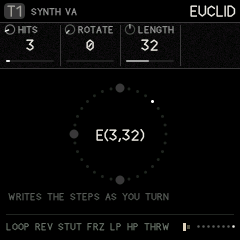
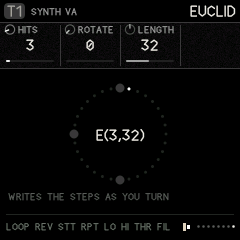
Punch-ins: REPEAT in time (black keys set its division), deeper tempo-timed sweeps, a true THROW (1.30.0)
- FX + white 4 is REPEAT (was the delay freeze, still on DELAY 2 > FREEZE):
  stutter_now() takes the master's last slice, a tempo division long, and
  repeats it while held (cut_hold: the repeats don't count down, full mix;
  let go, the slice playing ends). FX + black 1-5 set the division (1/16,
  1/16T, 1/32, 1/32T, 1/64), retaking a slice at once while held. Longer
  than half the cut ring (93 ms) is halved until it fits. A step's cut waits
  while REPEAT has the ring.
- LOW/HIGH PASS: punch_t restarts at each press; over one bar, exponentially,
  8 kHz -> 300 Hz and 40 Hz -> 6 kHz. The right channel's filter keeps its
  own state (only the coefficients are copied; it took the left's state).
- THROW: the dry fades out over ~80 ms while held (throw_g), the sends at
  0.8 as before.
- FX hint shortened to fit; manual screenshot; scenario punch.rvl.

Checked in the host: REPEAT's output is exactly periodic at the division
(self-similarity 1.0 at 1/32 of 104 BPM); the sweeps move the spectrum;
L/R correlation normal. Budgets: .fast_text 28,884 of 29,720 B.

Claude-Session: https://claude.ai/code/session_01BwzGhPZLDZkrxZk5dy3Yyf

diff --git a/firmware/app/rv_engine.c b/firmware/app/rv_engine.c
@@ -18,6 +18,8 @@ static uint32_t age_ctr;
 static uint32_t eng_rng = 0x13579BDFu;
 static float in_buf[RV_SUB * 2];
 static uint8_t punch[8];
+static uint8_t stut_rate = 2;                      /* the REPEAT punch-in's division (rv_bus.c stutter_now): 1/32 */
+static float punch_t, throw_g = 1.0f;              /* seconds since LOW or HIGH PASS was pressed; THROW's dry level */
 static hitshade_t hs_pend;                         /* the next hit's shading (R MOVE, GRAIN), taken by its voice */
 static svf_t punch_f[2];
 static float lim_gain = 1.0f;
@@ -517,6 +519,16 @@ static void cmd_drain(void)
             rv_live.playing = playing;
             break;
         case C_PUNCH:
+            if (c.a == 8) {                              /* REPEAT's division, from the black keys */
+                stut_rate = (uint8_t)clampi(c.b, 0, 4);
+                if (punch[3])
+                    stutter_now(1, stut_rate);
+                break;
+            }
+            if ((c.a == 4 || c.a == 5) && c.b && !punch[c.a])
+                punch_t = 0.0f;                          /* each press sweeps from the start */
+            if (c.a == 3 && c.b != punch[3])
+                stutter_now(c.b, stut_rate);
             punch[c.a & 7] = (uint8_t)c.b;
             if (c.a == 0 && c.b)
                 cut_now(1 | (rv.gp[GP_CUTSHAPE] << 2), 0.0f);
@@ -524,7 +536,6 @@ static void cmd_drain(void)
                 cut_now(2 | (rv.gp[GP_CUTSHAPE] << 2), 0.0f);
             if (c.a == 2 && c.b)
                 cut_now(3 | (rv.gp[GP_CUTSHAPE] << 2), 0.0f);
-            dly_freeze = punch[3];
             fill_on = punch[7];
             break;
         case C_CUT:
@@ -2234,11 +2245,11 @@ static void render_sub(float *outl, float *outr, int n)
         pan = eff[TP_PAN] * (1.0f / 64.0f);
         gl = lvl * fm_sqrtf(clampf(0.5f - pan * 0.5f, 0.0f, 1.0f)) * 1.414f;
         gr = lvl * fm_sqrtf(clampf(0.5f + pan * 0.5f, 0.0f, 1.0f)) * 1.414f;
-        if (punch[6]) {                              /* THROW: everything into delay and space */
-            gl *= 0.6f;
-            gr *= 0.6f;
+        if (punch[6] || throw_g < 1.0f) {            /* THROW: everything into delay and space, the dry fading out */
+            gl *= throw_g;
+            gr *= throw_g;
         }
-        if (!muted && !chorus && !punch[6] && n_chain) {   /* (the usual way: from RAM, the same sums) */
+        if (!muted && !chorus && !punch[6] && throw_g >= 1.0f && n_chain) {   /* (the usual way: from RAM, the same sums) */
             float g[6];
             float *o[6];
             g[0] = gl, g[1] = gr, g[2] = lvl, g[3] = eff[TP_FBS], g[4] = eff[TP_DLYS], g[5] = eff[TP_REVS];
@@ -2362,11 +2373,20 @@ static void render_sub(float *outl, float *outr, int n)
             }
         }
         RV_FAR(cuts_run)(outl, outr, n);
+        /* THROW's dry: out over ~80 ms while held, back as fast when let go */
+        throw_g += ((punch[6] ? 0.0f : 1.0f) - throw_g) * (1.0f - fm_expf(-(float)n * (1.0f / (0.08f * RV_FS))));
+        if (!punch[6] && throw_g > 0.999f)
+            throw_g = 1.0f;
         if (punch[4] || punch[5]) {
-            static float sweep = 1.0f;
-            sweep += ((punch[4] ? 0.15f : 0.05f) - sweep) * (1.0f - fm_expf(-0.0202f * (float)n * (1.0f / 32.0f)));
-            svf_set(&punch_f[0], punch[4] ? 200.0f + sweep * 8000.0f : 300.0f + (1.0f - sweep) * 3000.0f, 1.5f);
-            punch_f[1] = punch_f[0];
+            /* LOW PASS 8 kHz -> 300 Hz, HIGH PASS 40 Hz -> 6 kHz, over one bar from each press, exponentially */
+            float bar = 240.0f / (float)clampi(rv.gp[GP_TEMPO], 20, 300), p = fm_minf(1.0f, punch_t / bar);
+            punch_t += (float)n * RV_DT;
+            svf_set(&punch_f[0], punch[4] ? 8000.0f * fm_exp2f(p * -4.737f) : 40.0f * fm_exp2f(p * 7.229f), 1.5f);
+            punch_f[1].g = punch_f[0].g;              /* (the coefficients only: each side keeps its own state) */
+            punch_f[1].k = punch_f[0].k;
+            punch_f[1].a1 = punch_f[0].a1;
+            punch_f[1].a2 = punch_f[0].a2;
+            punch_f[1].a3 = punch_f[0].a3;
             for (i = 0; i < n; i++) {
                 float hp;
                 if (punch[4]) {

diff --git a/firmware/app/rv_bus.c b/firmware/app/rv_bus.c
@@ -706,7 +706,7 @@ RV_HOT static void bed_run(float *rev_in, float *l, float *r, int n, float act, 
 static int16_t cut_buf[RV_CUT_SAMPLES] RV_RAMBSS;   /* (in plain RAM: the pool keeps its room) */
 static int32_t cut_w, cut_start, cut_seg, cut_reps, cut_fade;
 static float cut_pos, cut_rate;
-static uint8_t cut_rev, cut_shape;
+static uint8_t cut_rev, cut_shape, cut_hold;   /* cut_hold: the REPEAT punch-in, repeating while held, at full mix */
 static uint32_t cut_rng = 0xA5A5A5u;
 
 /* action: bits 0-1 LOOP, REVERSE, STUTTER; 2-3 the shape (EVEN, BOUNCE, DRAG); 4-6 the size
@@ -717,6 +717,8 @@ static void cut_now(int action, float step_s)
         return;
     static const float frac[8] = {0.0f, 1.0f / 32.0f, 1.0f / 16.0f, 1.0f / 8.0f, 1.0f / 6.0f, 0.25f, 1.0f / 3.0f, 0.5f};
     int type = action & 3, size = (action >> 4) & 7;
+    if (cut_hold)                                     /* (the REPEAT punch-in has it while held) */
+        return;
     float sz = size && step_s > 0.0f ? step_s * frac[size] : 0.008f + (float)rv.gp[GP_CUTSIZE] * (0.08f / 127.0f);
     int32_t back;
     if (type == 0)
@@ -736,13 +738,46 @@ static void cut_now(int action, float step_s)
     cut_fade = clampi(cut_seg / 8, 16, 400);
 }
 
+/* the REPEAT punch-in (FX + white 4): the latest slice of the master, a tempo division long (1/16 1/16T 1/32
+ * 1/32T 1/64: rate 0-4), repeated while held. Pressed again with another rate it takes a fresh slice at once.
+ * A slice longer than the ring allows (half of it, 93 ms) is halved until it fits, so it stays on the beat. */
+static void stutter_now(int on, int rate)
+{
+    static const float mul[5] = {1.0f, 2.0f / 3.0f, 0.5f, 1.0f / 3.0f, 0.25f};
+    int32_t seg;
+    if (loop_mem & LM_CUT)                            /* (the LOOP track has the buffer) */
+        return;
+    if (!on) {
+        if (cut_hold)
+            cut_reps = 1;                             /* the slice playing ends, then the master again */
+        cut_hold = 0;
+        return;
+    }
+    seg = (int32_t)(15.0f / (float)clampi(rv.gp[GP_TEMPO], 20, 300) * mul[clampi(rate, 0, 4)] * (float)RV_FS);
+    while (seg > (int32_t)RV_CUT_SAMPLES / 2)
+        seg >>= 1;
+    if (seg < 64)
+        seg = 64;
+    cut_seg = seg;
+    cut_start = cut_w - seg;
+    while (cut_start < 0)
+        cut_start += (int32_t)RV_CUT_SAMPLES;
+    cut_shape = 0;
+    cut_rev = 0;
+    cut_pos = 0.0f;
+    cut_rate = 1.0f;
+    cut_reps = 1;
+    cut_fade = clampi(seg / 16, 16, 200);
+    cut_hold = 1;
+}
+
 /* in place on the master: writes the ring, plays the cut over it */
 RV_HOT static void cuts_run(float *l, float *r, int n)   /* (v1.22: from RAM) */
 {
     if (loop_mem & LM_CUT)
         return;
     int i;
-    float mix = gv(GP_CUTMIX) * (1.0f / 127.0f);
+    float mix = cut_hold ? 1.0f : gv(GP_CUTMIX) * (1.0f / 127.0f);
     for (i = 0; i < n; i++) {
         if (cut_reps <= 0) {
             cut_buf[cut_w] = (int16_t)clampf((l[i] + r[i]) * 8192.0f, -32000.0f, 32000.0f);
@@ -768,7 +803,8 @@ RV_HOT static void cuts_run(float *l, float *r, int n)   /* (v1.22: from RAM) */
             cut_pos += cut_rate;
             if (cut_pos >= (float)cut_seg) {          /* the next repeat */
                 cut_pos = 0.0f;
-                cut_reps--;
+                if (!cut_hold)
+                    cut_reps--;
                 if (cut_shape == 1) {
                     cut_seg = cut_seg * 3 / 4 > 64 ? cut_seg * 3 / 4 : 64;
                     cut_rate *= 1.06f;
@@ -807,6 +843,7 @@ static void buses_reset(void)                         /* (a buffer the LOOP trac
     if (!(loop_mem & LM_CUT))
         __builtin_memset(cut_buf, 0, sizeof(cut_buf));
     cut_reps = 0;
+    cut_hold = 0;
     __builtin_memset(bed_y1, 0, sizeof(bed_y1));
     __builtin_memset(bed_y2, 0, sizeof(bed_y2));
     bed_key[0] = -1;

diff --git a/firmware/app/rv_ui.c b/firmware/app/rv_ui.c
@@ -2837,6 +2837,11 @@ static void key_event(int k, int on)
     if (btn & (1u << B_FX)) {                 /* punch-in effects on the white keys */
         if (wi >= 0 && wi < 8)
             rv_punch(wi, on);
+        else if (bi >= 0 && bi < 5 && on) {   /* the black keys: REPEAT's division (at once if it is held) */
+            static const char *const div[5] = {"REPEAT 1/16", "REPEAT 1/16T", "REPEAT 1/32", "REPEAT 1/32T", "REPEAT 1/64"};
+            rv_punch(8, bi);
+            msg(div[bi]);
+        }
         ui.layer_used[B_FX] = 1;
         return;
     }
@@ -3823,7 +3828,7 @@ static void draw_footer(void)
     else if (btn & (1u << B_LFO))
         hint = "KNOBS: MACRO 1-4";
     else if (btn & (1u << B_FX))
-        hint = "LOOP REV STUT FRZ LP HP THRW FILL";
+        hint = "LOOP REV STT RPT LO HI THR FIL";
     else if (btn & (1u << B_GLO))
         hint = pg->pic == PIC_MUTES ? "1-8 SOLO  BLK1 TAP" : "1-8 MUTE  9-16 SOLO  BLK1 TAP";
     else if (btn & (1u << B_SAVE))
@@ -6585,6 +6590,7 @@ static void draw_help(void)
             "REC: ARM. STOPPED ON SEQ: STEP BY STEP",
             "REC + SAVE: TAKE THE LAST LOOP PLAYED",
             "FX + KEYS 1-8: PUNCH-IN EFFECTS",
+            "FX + BLACK 1-5: REPEAT 1/16 TO 1/64",
             "GLO + KEYS: MUTE 1-8, SOLO 9-16",
             "SAVE + KEY: STORE A SCENE",
             "LFO + KNOBS: MACROS 1-4   SCL + KEY: ROOT",

diff --git a/README.md b/README.md
@@ -1104,9 +1104,13 @@ Each track can send part of its sound into three shared effects (buses): the del
 
 | Key | 1 | 2 | 3 | 4 | 5 | 6 | 7 | 8 |
 | --- | --- | --- | --- | --- | --- | --- | --- | --- |
-| Effect | LOOP (microcut) | REVERSE | STUTTER | FREEZE the delay | LOW PASS sweep | HIGH PASS sweep | THROW: everything into delay and space | FILL: steps set to FILL play |
+| Effect | LOOP (microcut) | REVERSE | STUTTER | REPEAT: the master repeated in time | LOW PASS sweep | HIGH PASS sweep | THROW: only the echoes and the space | FILL: steps set to FILL play |
 
 The effects last while the key is held. Letting go of FX releases them all.
+
+- **REPEAT** (key 4) takes the last slice of the master output, a tempo division long, and repeats it for as long as you hold it. While FX is held, the **black keys 1–5** set the division: **1/16, 1/16T, 1/32, 1/32T, 1/64** (1/32 to start with). Pressed while REPEAT is held, the new division takes a fresh slice at once, so you can roll it faster or slower as you play. A slice can be at most 93 ms: a division longer than that at the tempo (1/16 below about 160 BPM) is halved until it fits, so it stays on the beat. It shares the microcut memory, so it doesn't work while a LOOP track is using it. (The delay's freeze is still on its knob: DELAY 2 › FREEZE.)
+- **LOW PASS** (key 5) closes from 8 kHz to 300 Hz, and **HIGH PASS** (key 6) opens from 40 Hz to 6 kHz, each over one bar from the moment you press it.
+- **THROW** (key 7) sends everything into the delay and the space and fades the dry sound out (in about 80 ms), so only the echoes and the space play; letting go brings the dry back.
 
 ## 10. SCL: scale
 
@@ -1496,7 +1500,7 @@ Hold a button (in the emulator: right-click or shift-click to latch it) and the 
 | **SEQ** | white keys | Steps, from any page. Hold a step and turn a knob to lock that value on that step. |
 | **SEQ + ENV** | hold a step, turn KNOB 1 | The step's LIBRARY envelope |
 | **LFO** | KNOB 1–4 | Macros 1–4 |
-| **FX** | white keys 1–8 | Punch-ins: loop, reverse, stutter, freeze, low pass, high pass, throw, fill |
+| **FX** | white keys 1–8; black 1–5 | Punch-ins: loop, reverse, stutter, repeat, low pass, high pass, throw, fill; REPEAT's division |
 | **GLO** | white keys 1–8 / 9–16, black 1 | Mute / solo, tap tempo |
 | **SAVE** | white key | Store scene 1–16 |
 | **SCL** | any key | Set the root |

diff --git a/CHANGELOG.md b/CHANGELOG.md
@@ -3,6 +3,19 @@
 What each release of Ravel adds and fixes. The release workflow puts a version's section at the top of its
 GitHub release; a version with no section here gets its commits listed instead. Newest first.
 
+## 1.30.0
+
+New
+- REPEAT punch-in (FX + white 4, in place of the delay freeze, which stays on DELAY 2 › FREEZE): the last slice of the master, a tempo division long, repeated while held. FX + black keys 1–5 set the division (1/16, 1/16T, 1/32, 1/32T, 1/64), at once while REPEAT is held, so it can be rolled faster or slower as you play. A division longer than 93 ms at the tempo is halved until it fits, so it stays on the beat.
+
+Changed
+- LOW PASS and HIGH PASS punch-ins: each press sweeps from the start, over one bar at the tempo, and further: low pass 8 kHz to 300 Hz, high pass 40 Hz to 6 kHz.
+- THROW: the dry sound fades out while it is held (about 80 ms), so only the echoes and the space play.
+- The FX hint fits the screen (LOOP REV STT RPT LO HI THR FIL).
+
+Fixed
+- The punch-in filters' right channel took the left's state every block (not truly stereo, with a faint click); a sweep after the other filter started from where that one had stopped.
+
 ## 1.29.0
 
 New
